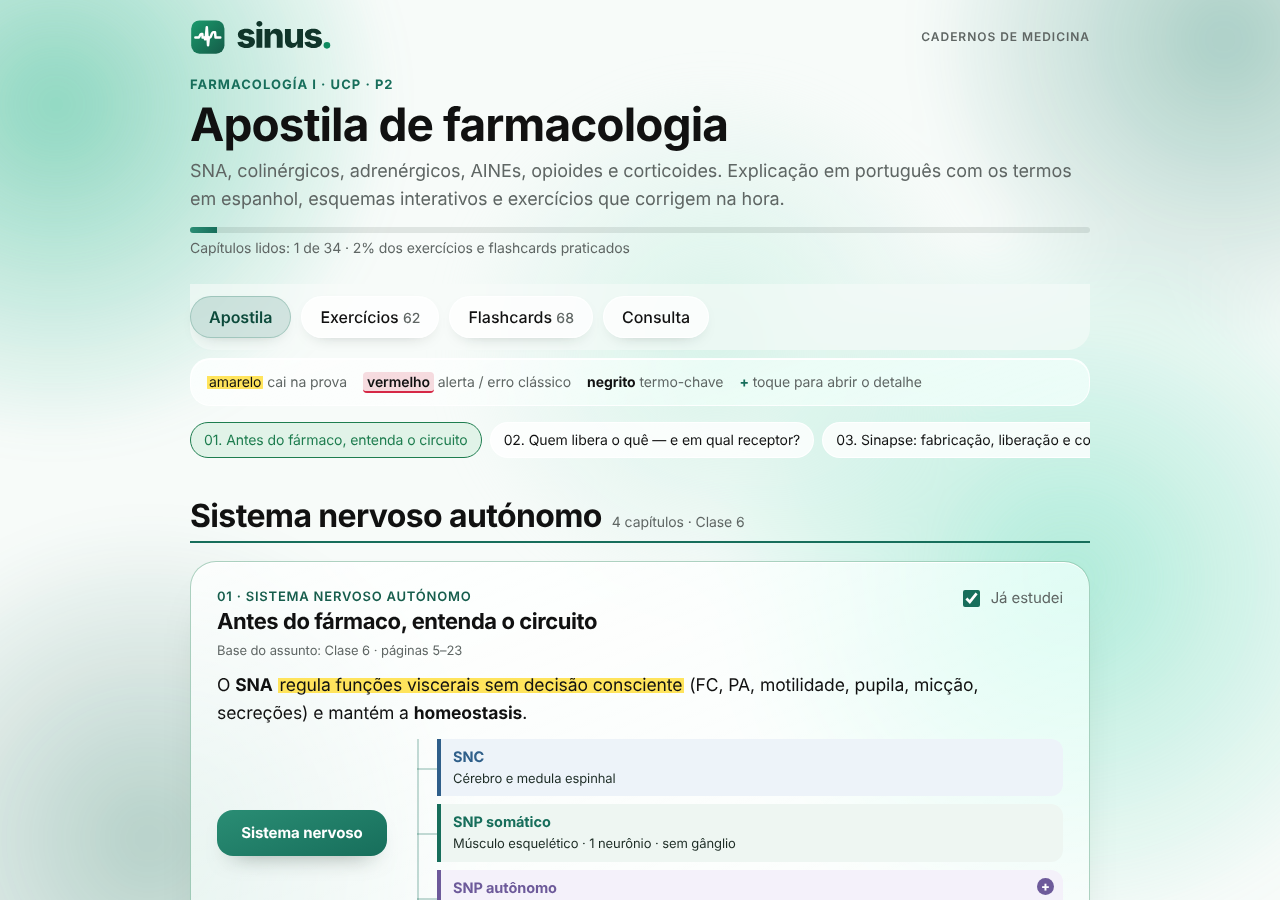
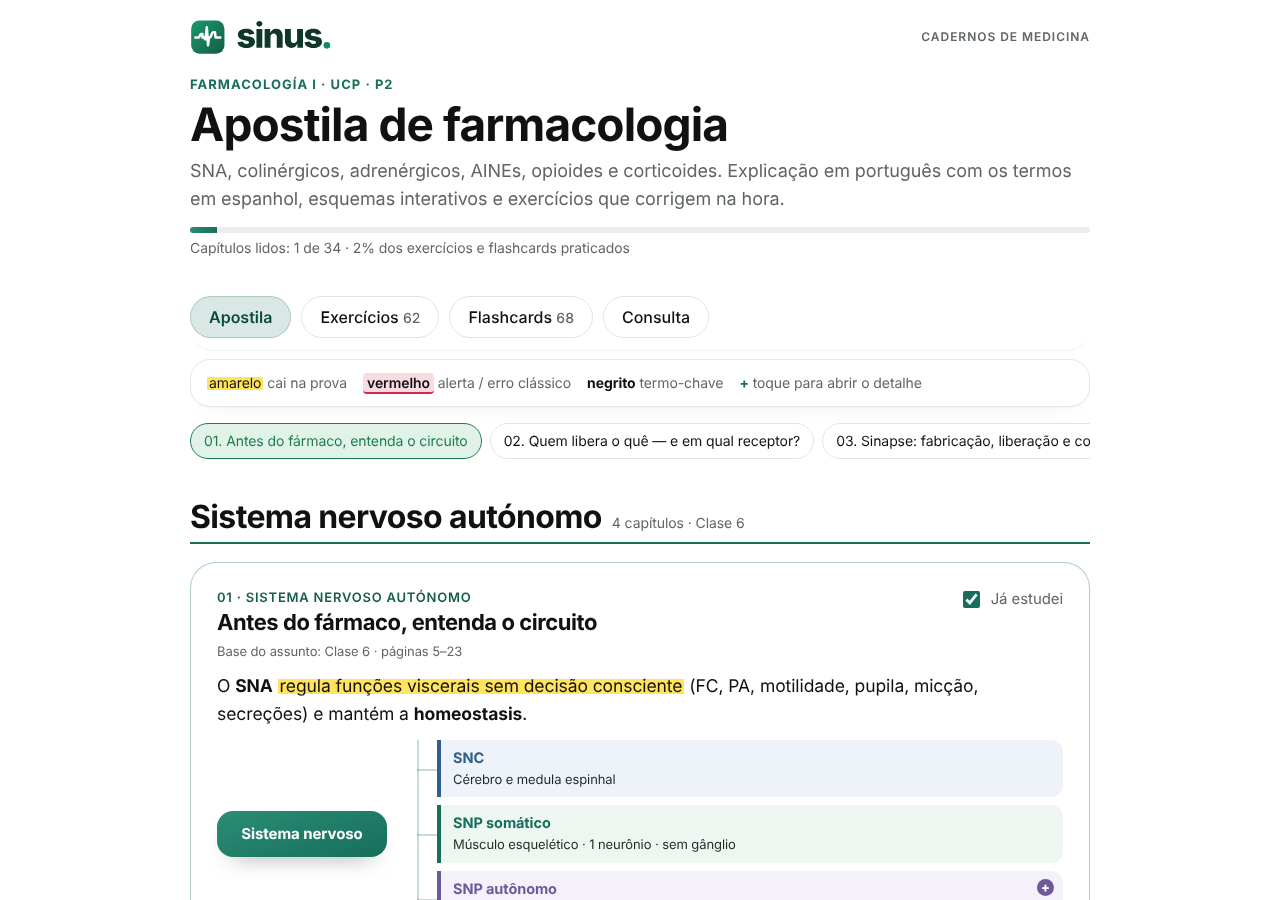
Apostila SINUS P2: fundo branco, sem efeito aurora
Claude-Session: https://claude.ai/code/session_011jma7q55HCxyfy7vE8b8a7

diff --git a/materiais/farmacologia-p2/apostila-farmacologia-p2.html b/materiais/farmacologia-p2/apostila-farmacologia-p2.html
@@ -13,16 +13,16 @@
    Fundo aurora menta · cartões de vidro · abas em pílula · Inter
    ========================================================== */
 :root{
-  --bg:#f7fbf9; --ink:#111; --ink2:#10352a; --mut:#5f6664; --line:#e3e8e5;
+  --bg:#ffffff; --ink:#111; --ink2:#10352a; --mut:#5f6664; --line:#e3e8e5;
   --acc:#176e5b; --acc2:#0c8059; --acc-d:#0c4a3b; --acc-soft:#eef5f2;
   --warn:#8a5a00; --warn-soft:#fff3d6; --ok:#1e7d4f; --ok-soft:#e1f3e8; --bad:#a3261c; --bad-soft:#fbe6e3; --info:#2f5f8a; --info-soft:#e8f0f8;
-  --glass:linear-gradient(160deg,rgba(255,255,255,.80),rgba(255,255,255,.56) 55%,rgba(255,255,255,.68));
+  --glass:#ffffff;
   --f:"Inter","Manrope","DM Sans",system-ui,-apple-system,"Segoe UI",sans-serif;
 }
 *{box-sizing:border-box}
 html,body{margin:0}
 body{position:relative;isolation:isolate;overflow-x:hidden;background:var(--bg);color:var(--ink);font:17px/1.6 var(--f);letter-spacing:-.005em;padding:0 max(16px,env(safe-area-inset-left,0px)) 40px;-webkit-font-smoothing:antialiased}
-body::before{content:"";position:fixed;inset:-10vh -10vw;z-index:-1;pointer-events:none;
+body::before{display:none;content:"";position:fixed;inset:-10vh -10vw;z-index:-1;pointer-events:none;
   background:
     radial-gradient(38vmax 38vmax at 12% 18%,rgba(56,174,139,.5),rgba(56,174,139,0) 70%),
     radial-gradient(34vmax 34vmax at 88% 12%,rgba(22,110,91,.32),rgba(22,110,91,0) 70%),
@@ -38,7 +38,7 @@ a{color:var(--acc)}
 button{font:inherit;cursor:pointer;color:var(--ink)}
 :focus-visible{outline:2px solid var(--acc);outline-offset:2px}
 .wrap{max-width:900px;margin:0 auto}
-.glass{background:var(--glass);-webkit-backdrop-filter:blur(18px) saturate(170%);backdrop-filter:blur(18px) saturate(170%);border:1px solid rgba(255,255,255,.85);box-shadow:inset 0 1px 0 #fff,0 24px 48px -32px rgba(17,40,30,.35)}
+.glass{background:var(--glass);-webkit-backdrop-filter:blur(18px) saturate(170%);backdrop-filter:blur(18px) saturate(170%);border:1px solid #e3e8e5;box-shadow:0 1px 2px rgba(17,40,30,.04),0 8px 24px -18px rgba(17,40,30,.18)}
 
 /* ---------- topo ---------- */
 .brandbar{display:flex;justify-content:space-between;align-items:center;padding:18px 0 4px}
@@ -48,16 +48,16 @@ header.top{padding:14px 0 6px}
 .kicker{font-size:13px;letter-spacing:.08em;text-transform:uppercase;color:var(--acc);font-weight:700}
 header.top h1{font-size:clamp(30px,5vw,46px);font-weight:700;line-height:1.1;margin-top:4px}
 .lede{color:var(--mut);margin:8px 0 0;font-size:18px;line-height:1.55}
-.progress{height:6px;background:rgba(17,40,30,.1);border-radius:6px;overflow:hidden;margin:14px 0 4px}
+.progress{height:6px;background:#eceeed;border-radius:6px;overflow:hidden;margin:14px 0 4px}
 .progress i{display:block;height:100%;width:0;background:linear-gradient(90deg,#2a8d74,#176e5b);transition:width .3s}
 .mini{font-size:14px;color:var(--mut)}
 
 /* ---------- abas ---------- */
-nav.tabs{display:flex;gap:10px;flex-wrap:wrap;position:sticky;top:0;z-index:20;margin:18px 0 8px;padding:12px 0;background:rgba(247,251,249,.55);-webkit-backdrop-filter:blur(16px);backdrop-filter:blur(16px);border-radius:0 0 22px 22px}
-nav.tabs button{border-radius:999px;padding:9px 18px;font:500 16px var(--f);min-height:42px;background:rgba(255,255,255,.72);border:1px solid rgba(255,255,255,.9);box-shadow:0 6px 18px -12px rgba(17,40,30,.4)}
+nav.tabs{display:flex;gap:10px;flex-wrap:wrap;position:sticky;top:0;z-index:20;margin:18px 0 8px;padding:12px 0;background:rgba(255,255,255,.96);border-bottom:1px solid #eef1ef;-webkit-backdrop-filter:blur(16px);backdrop-filter:blur(16px);border-radius:0 0 22px 22px}
+nav.tabs button{border-radius:999px;padding:9px 18px;font:500 16px var(--f);min-height:42px;background:#fff;border:1px solid #dfe5e2}
 nav.tabs button[aria-selected="true"]{background:rgba(22,110,91,.16);border-color:rgba(22,110,91,.25);color:var(--acc-d);font-weight:600}
 .toc{display:flex;gap:8px;overflow-x:auto;padding:6px 0 12px;scrollbar-width:thin}
-.toc a{white-space:nowrap;text-decoration:none;border-radius:999px;padding:6px 13px;font-size:14px;background:rgba(255,255,255,.8);border:1px solid rgba(255,255,255,.95);color:var(--ink)}
+.toc a{white-space:nowrap;text-decoration:none;border-radius:999px;padding:6px 13px;font-size:14px;background:#fff;border:1px solid #dfe5e2;color:var(--ink)}
 .toc a.done{border-color:var(--ok);color:var(--ok);background:var(--ok-soft)}
 
 /* ---------- grupos (módulos) ---------- */
@@ -68,7 +68,7 @@ section.grupo{margin-top:28px}
 .grupo-d{color:var(--mut);font-size:15px;margin:8px 0 0}
 
 /* ---------- capítulo (cartão) ---------- */
-.cap{border-radius:26px;padding:24px 26px 20px;margin:18px 0;scroll-margin-top:90px;background:var(--glass);-webkit-backdrop-filter:blur(18px) saturate(170%);backdrop-filter:blur(18px) saturate(170%);border:1px solid rgba(255,255,255,.85);box-shadow:inset 0 1px 0 #fff,0 24px 48px -32px rgba(17,40,30,.35)}
+.cap{border-radius:26px;padding:24px 26px 20px;margin:18px 0;scroll-margin-top:90px;background:var(--glass);-webkit-backdrop-filter:blur(18px) saturate(170%);backdrop-filter:blur(18px) saturate(170%);border:1px solid #e3e8e5;box-shadow:0 1px 2px rgba(17,40,30,.04),0 8px 24px -18px rgba(17,40,30,.18)}
 .cap .head{display:flex;justify-content:space-between;gap:10px;align-items:flex-start;flex-wrap:wrap;margin-bottom:6px}
 .cap .num{display:block;font-size:13px;letter-spacing:.06em;color:#165d4c;font-weight:600;text-transform:uppercase}
 .cap h3{font-size:22px;font-weight:700;margin-top:2px}
@@ -83,14 +83,14 @@ ul.pl,ol.pl{margin:4px 0 8px;padding-left:22px}
 ul.pl li,ol.pl li{margin-bottom:3px}
 
 /* ---------- tabelas ---------- */
-.tw{overflow-x:auto;border-radius:16px;margin:10px 0 12px;background:rgba(255,255,255,.7);border:1px solid rgba(255,255,255,.9)}
+.tw{overflow-x:auto;border-radius:16px;margin:10px 0 12px;background:#fff;border:1px solid #e3e8e5}
 table.t{width:100%;border-collapse:collapse;font-size:14.5px;line-height:1.45}
 table.t thead th{background:rgba(22,110,91,.1);color:var(--acc-d);text-align:left;font-weight:700;padding:10px 12px}
 table.t td{padding:9px 12px;border-top:1px solid var(--line);vertical-align:top}
 table.t tr{break-inside:avoid}
 
 /* ---------- quadros (estilo «Em 3 linhas» / «Para memorizar») ---------- */
-.box{border-radius:20px;padding:13px 16px;margin:12px 0;background:var(--glass);-webkit-backdrop-filter:blur(18px) saturate(170%);backdrop-filter:blur(18px) saturate(170%);border:1px solid rgba(255,255,255,.85);box-shadow:inset 0 1px 0 #fff,0 18px 36px -30px rgba(17,40,30,.35)}
+.box{border-radius:20px;padding:13px 16px;margin:12px 0;background:#f6f8f7;-webkit-backdrop-filter:blur(18px) saturate(170%);backdrop-filter:blur(18px) saturate(170%);border:1px solid #e3e8e5;box-shadow:none}
 .box .lb{display:block;font-weight:700;font-size:15px;color:var(--ink);margin-bottom:4px}
 .box p{font-size:16px;margin:.2em 0}
 .box.warn{background:var(--warn-soft);border-left:4px solid var(--warn)}
@@ -151,7 +151,7 @@ details.mmdet[open] summary:after{content:"Fechar"}
 .mmlegend{font-size:13.5px;color:var(--mut);margin:0 0 8px}
 
 /* ---------- exercícios ---------- */
-.qbox{border-radius:20px;padding:16px 18px;margin:0 0 12px;background:var(--glass);-webkit-backdrop-filter:blur(18px) saturate(170%);backdrop-filter:blur(18px) saturate(170%);border:1px solid rgba(255,255,255,.85);box-shadow:inset 0 1px 0 #fff,0 18px 36px -30px rgba(17,40,30,.35);break-inside:avoid}
+.qbox{border-radius:20px;padding:16px 18px;margin:0 0 12px;background:var(--glass);-webkit-backdrop-filter:blur(18px) saturate(170%);backdrop-filter:blur(18px) saturate(170%);border:1px solid #e3e8e5;box-shadow:none;break-inside:avoid}
 .qbox .qn{display:flex;justify-content:space-between;gap:8px;align-items:center;font-size:13px;color:var(--mut);font-weight:600;margin-bottom:6px}
 .qbox .qn em{font-style:normal;font-size:12px;font-weight:600;color:var(--acc);background:var(--acc-soft);border-radius:999px;padding:3px 10px}
 .qbox .qt{font-size:17px;font-weight:600;margin-bottom:10px;line-height:1.45}
@@ -171,7 +171,7 @@ details.mmdet[open] summary:after{content:"Fechar"}
 .rv .ans.show{display:block}
 .btn{border-radius:999px;border:1px solid transparent;background:linear-gradient(160deg,#2a8d74,#176e5b);color:#fff;padding:8px 16px;font:600 14px var(--f);min-height:40px}
 .btn.ghost{background:rgba(255,255,255,.85);color:var(--acc-d);border-color:rgba(22,110,91,.25)}
-.score{display:flex;gap:0;flex-wrap:wrap;align-items:center;border-radius:20px;padding:14px 18px;margin:12px 0 14px;background:var(--glass);border:1px solid rgba(255,255,255,.85)}
+.score{display:flex;gap:0;flex-wrap:wrap;align-items:center;border-radius:20px;padding:14px 18px;margin:12px 0 14px;background:#f6f8f7;border:1px solid #e3e8e5}
 .score .s{padding:0 18px;border-left:1px solid var(--line);font-size:11.5px;letter-spacing:.08em;text-transform:uppercase;color:var(--mut);font-weight:600}
 .score .s:first-child{padding-left:0;border-left:0}
 .score .s b{display:block;font-size:26px;letter-spacing:-.02em;color:#111;text-transform:none}
@@ -185,7 +185,7 @@ details.mmdet[open] summary:after{content:"Fechar"}
 .card3{perspective:1100px;height:240px;margin:0 auto;max-width:680px;cursor:pointer}
 .card3 .in{position:relative;width:100%;height:100%;transition:transform .5s;transform-style:preserve-3d}
 .card3.flip .in{transform:rotateY(180deg)}
-.card3 .f,.card3 .b{position:absolute;inset:0;backface-visibility:hidden;-webkit-backface-visibility:hidden;border-radius:24px;padding:24px 28px;display:flex;flex-direction:column;justify-content:center;border:1px solid rgba(255,255,255,.9);box-shadow:inset 0 1px 0 #fff,0 24px 48px -30px rgba(17,40,30,.45)}
+.card3 .f,.card3 .b{position:absolute;inset:0;backface-visibility:hidden;-webkit-backface-visibility:hidden;border-radius:24px;padding:24px 28px;display:flex;flex-direction:column;justify-content:center;border:1px solid #e3e8e5;box-shadow:0 10px 28px -18px rgba(17,40,30,.3)}
 .card3 .f{background:var(--glass);-webkit-backdrop-filter:blur(18px);backdrop-filter:blur(18px)}
 .card3 .b{background:linear-gradient(160deg,#e9f6ef,#d9efe4);transform:rotateY(180deg)}
 .card3 .lbl{font:700 12px var(--f);letter-spacing:.08em;text-transform:uppercase;color:var(--acc);margin-bottom:10px}

diff --git a/materiais/farmacologia-p2/src/estilo.css b/materiais/farmacologia-p2/src/estilo.css
@@ -3,16 +3,16 @@
    Fundo aurora menta · cartões de vidro · abas em pílula · Inter
    ========================================================== */
 :root{
-  --bg:#f7fbf9; --ink:#111; --ink2:#10352a; --mut:#5f6664; --line:#e3e8e5;
+  --bg:#ffffff; --ink:#111; --ink2:#10352a; --mut:#5f6664; --line:#e3e8e5;
   --acc:#176e5b; --acc2:#0c8059; --acc-d:#0c4a3b; --acc-soft:#eef5f2;
   --warn:#8a5a00; --warn-soft:#fff3d6; --ok:#1e7d4f; --ok-soft:#e1f3e8; --bad:#a3261c; --bad-soft:#fbe6e3; --info:#2f5f8a; --info-soft:#e8f0f8;
-  --glass:linear-gradient(160deg,rgba(255,255,255,.80),rgba(255,255,255,.56) 55%,rgba(255,255,255,.68));
+  --glass:#ffffff;
   --f:"Inter","Manrope","DM Sans",system-ui,-apple-system,"Segoe UI",sans-serif;
 }
 *{box-sizing:border-box}
 html,body{margin:0}
 body{position:relative;isolation:isolate;overflow-x:hidden;background:var(--bg);color:var(--ink);font:17px/1.6 var(--f);letter-spacing:-.005em;padding:0 max(16px,env(safe-area-inset-left,0px)) 40px;-webkit-font-smoothing:antialiased}
-body::before{content:"";position:fixed;inset:-10vh -10vw;z-index:-1;pointer-events:none;
+body::before{display:none;content:"";position:fixed;inset:-10vh -10vw;z-index:-1;pointer-events:none;
   background:
     radial-gradient(38vmax 38vmax at 12% 18%,rgba(56,174,139,.5),rgba(56,174,139,0) 70%),
     radial-gradient(34vmax 34vmax at 88% 12%,rgba(22,110,91,.32),rgba(22,110,91,0) 70%),
@@ -28,7 +28,7 @@ a{color:var(--acc)}
 button{font:inherit;cursor:pointer;color:var(--ink)}
 :focus-visible{outline:2px solid var(--acc);outline-offset:2px}
 .wrap{max-width:900px;margin:0 auto}
-.glass{background:var(--glass);-webkit-backdrop-filter:blur(18px) saturate(170%);backdrop-filter:blur(18px) saturate(170%);border:1px solid rgba(255,255,255,.85);box-shadow:inset 0 1px 0 #fff,0 24px 48px -32px rgba(17,40,30,.35)}
+.glass{background:var(--glass);-webkit-backdrop-filter:blur(18px) saturate(170%);backdrop-filter:blur(18px) saturate(170%);border:1px solid #e3e8e5;box-shadow:0 1px 2px rgba(17,40,30,.04),0 8px 24px -18px rgba(17,40,30,.18)}
 
 /* ---------- topo ---------- */
 .brandbar{display:flex;justify-content:space-between;align-items:center;padding:18px 0 4px}
@@ -38,16 +38,16 @@ header.top{padding:14px 0 6px}
 .kicker{font-size:13px;letter-spacing:.08em;text-transform:uppercase;color:var(--acc);font-weight:700}
 header.top h1{font-size:clamp(30px,5vw,46px);font-weight:700;line-height:1.1;margin-top:4px}
 .lede{color:var(--mut);margin:8px 0 0;font-size:18px;line-height:1.55}
-.progress{height:6px;background:rgba(17,40,30,.1);border-radius:6px;overflow:hidden;margin:14px 0 4px}
+.progress{height:6px;background:#eceeed;border-radius:6px;overflow:hidden;margin:14px 0 4px}
 .progress i{display:block;height:100%;width:0;background:linear-gradient(90deg,#2a8d74,#176e5b);transition:width .3s}
 .mini{font-size:14px;color:var(--mut)}
 
 /* ---------- abas ---------- */
-nav.tabs{display:flex;gap:10px;flex-wrap:wrap;position:sticky;top:0;z-index:20;margin:18px 0 8px;padding:12px 0;background:rgba(247,251,249,.55);-webkit-backdrop-filter:blur(16px);backdrop-filter:blur(16px);border-radius:0 0 22px 22px}
-nav.tabs button{border-radius:999px;padding:9px 18px;font:500 16px var(--f);min-height:42px;background:rgba(255,255,255,.72);border:1px solid rgba(255,255,255,.9);box-shadow:0 6px 18px -12px rgba(17,40,30,.4)}
+nav.tabs{display:flex;gap:10px;flex-wrap:wrap;position:sticky;top:0;z-index:20;margin:18px 0 8px;padding:12px 0;background:rgba(255,255,255,.96);border-bottom:1px solid #eef1ef;-webkit-backdrop-filter:blur(16px);backdrop-filter:blur(16px);border-radius:0 0 22px 22px}
+nav.tabs button{border-radius:999px;padding:9px 18px;font:500 16px var(--f);min-height:42px;background:#fff;border:1px solid #dfe5e2}
 nav.tabs button[aria-selected="true"]{background:rgba(22,110,91,.16);border-color:rgba(22,110,91,.25);color:var(--acc-d);font-weight:600}
 .toc{display:flex;gap:8px;overflow-x:auto;padding:6px 0 12px;scrollbar-width:thin}
-.toc a{white-space:nowrap;text-decoration:none;border-radius:999px;padding:6px 13px;font-size:14px;background:rgba(255,255,255,.8);border:1px solid rgba(255,255,255,.95);color:var(--ink)}
+.toc a{white-space:nowrap;text-decoration:none;border-radius:999px;padding:6px 13px;font-size:14px;background:#fff;border:1px solid #dfe5e2;color:var(--ink)}
 .toc a.done{border-color:var(--ok);color:var(--ok);background:var(--ok-soft)}
 
 /* ---------- grupos (módulos) ---------- */
@@ -58,7 +58,7 @@ section.grupo{margin-top:28px}
 .grupo-d{color:var(--mut);font-size:15px;margin:8px 0 0}
 
 /* ---------- capítulo (cartão) ---------- */
-.cap{border-radius:26px;padding:24px 26px 20px;margin:18px 0;scroll-margin-top:90px;background:var(--glass);-webkit-backdrop-filter:blur(18px) saturate(170%);backdrop-filter:blur(18px) saturate(170%);border:1px solid rgba(255,255,255,.85);box-shadow:inset 0 1px 0 #fff,0 24px 48px -32px rgba(17,40,30,.35)}
+.cap{border-radius:26px;padding:24px 26px 20px;margin:18px 0;scroll-margin-top:90px;background:var(--glass);-webkit-backdrop-filter:blur(18px) saturate(170%);backdrop-filter:blur(18px) saturate(170%);border:1px solid #e3e8e5;box-shadow:0 1px 2px rgba(17,40,30,.04),0 8px 24px -18px rgba(17,40,30,.18)}
 .cap .head{display:flex;justify-content:space-between;gap:10px;align-items:flex-start;flex-wrap:wrap;margin-bottom:6px}
 .cap .num{display:block;font-size:13px;letter-spacing:.06em;color:#165d4c;font-weight:600;text-transform:uppercase}
 .cap h3{font-size:22px;font-weight:700;margin-top:2px}
@@ -73,14 +73,14 @@ ul.pl,ol.pl{margin:4px 0 8px;padding-left:22px}
 ul.pl li,ol.pl li{margin-bottom:3px}
 
 /* ---------- tabelas ---------- */
-.tw{overflow-x:auto;border-radius:16px;margin:10px 0 12px;background:rgba(255,255,255,.7);border:1px solid rgba(255,255,255,.9)}
+.tw{overflow-x:auto;border-radius:16px;margin:10px 0 12px;background:#fff;border:1px solid #e3e8e5}
 table.t{width:100%;border-collapse:collapse;font-size:14.5px;line-height:1.45}
 table.t thead th{background:rgba(22,110,91,.1);color:var(--acc-d);text-align:left;font-weight:700;padding:10px 12px}
 table.t td{padding:9px 12px;border-top:1px solid var(--line);vertical-align:top}
 table.t tr{break-inside:avoid}
 
 /* ---------- quadros (estilo «Em 3 linhas» / «Para memorizar») ---------- */
-.box{border-radius:20px;padding:13px 16px;margin:12px 0;background:var(--glass);-webkit-backdrop-filter:blur(18px) saturate(170%);backdrop-filter:blur(18px) saturate(170%);border:1px solid rgba(255,255,255,.85);box-shadow:inset 0 1px 0 #fff,0 18px 36px -30px rgba(17,40,30,.35)}
+.box{border-radius:20px;padding:13px 16px;margin:12px 0;background:#f6f8f7;-webkit-backdrop-filter:blur(18px) saturate(170%);backdrop-filter:blur(18px) saturate(170%);border:1px solid #e3e8e5;box-shadow:none}
 .box .lb{display:block;font-weight:700;font-size:15px;color:var(--ink);margin-bottom:4px}
 .box p{font-size:16px;margin:.2em 0}
 .box.warn{background:var(--warn-soft);border-left:4px solid var(--warn)}
@@ -141,7 +141,7 @@ details.mmdet[open] summary:after{content:"Fechar"}
 .mmlegend{font-size:13.5px;color:var(--mut);margin:0 0 8px}
 
 /* ---------- exercícios ---------- */
-.qbox{border-radius:20px;padding:16px 18px;margin:0 0 12px;background:var(--glass);-webkit-backdrop-filter:blur(18px) saturate(170%);backdrop-filter:blur(18px) saturate(170%);border:1px solid rgba(255,255,255,.85);box-shadow:inset 0 1px 0 #fff,0 18px 36px -30px rgba(17,40,30,.35);break-inside:avoid}
+.qbox{border-radius:20px;padding:16px 18px;margin:0 0 12px;background:var(--glass);-webkit-backdrop-filter:blur(18px) saturate(170%);backdrop-filter:blur(18px) saturate(170%);border:1px solid #e3e8e5;box-shadow:none;break-inside:avoid}
 .qbox .qn{display:flex;justify-content:space-between;gap:8px;align-items:center;font-size:13px;color:var(--mut);font-weight:600;margin-bottom:6px}
 .qbox .qn em{font-style:normal;font-size:12px;font-weight:600;color:var(--acc);background:var(--acc-soft);border-radius:999px;padding:3px 10px}
 .qbox .qt{font-size:17px;font-weight:600;margin-bottom:10px;line-height:1.45}
@@ -161,7 +161,7 @@ details.mmdet[open] summary:after{content:"Fechar"}
 .rv .ans.show{display:block}
 .btn{border-radius:999px;border:1px solid transparent;background:linear-gradient(160deg,#2a8d74,#176e5b);color:#fff;padding:8px 16px;font:600 14px var(--f);min-height:40px}
 .btn.ghost{background:rgba(255,255,255,.85);color:var(--acc-d);border-color:rgba(22,110,91,.25)}
-.score{display:flex;gap:0;flex-wrap:wrap;align-items:center;border-radius:20px;padding:14px 18px;margin:12px 0 14px;background:var(--glass);border:1px solid rgba(255,255,255,.85)}
+.score{display:flex;gap:0;flex-wrap:wrap;align-items:center;border-radius:20px;padding:14px 18px;margin:12px 0 14px;background:#f6f8f7;border:1px solid #e3e8e5}
 .score .s{padding:0 18px;border-left:1px solid var(--line);font-size:11.5px;letter-spacing:.08em;text-transform:uppercase;color:var(--mut);font-weight:600}
 .score .s:first-child{padding-left:0;border-left:0}
 .score .s b{display:block;font-size:26px;letter-spacing:-.02em;color:#111;text-transform:none}
@@ -175,7 +175,7 @@ details.mmdet[open] summary:after{content:"Fechar"}
 .card3{perspective:1100px;height:240px;margin:0 auto;max-width:680px;cursor:pointer}
 .card3 .in{position:relative;width:100%;height:100%;transition:transform .5s;transform-style:preserve-3d}
 .card3.flip .in{transform:rotateY(180deg)}
-.card3 .f,.card3 .b{position:absolute;inset:0;backface-visibility:hidden;-webkit-backface-visibility:hidden;border-radius:24px;padding:24px 28px;display:flex;flex-direction:column;justify-content:center;border:1px solid rgba(255,255,255,.9);box-shadow:inset 0 1px 0 #fff,0 24px 48px -30px rgba(17,40,30,.45)}
+.card3 .f,.card3 .b{position:absolute;inset:0;backface-visibility:hidden;-webkit-backface-visibility:hidden;border-radius:24px;padding:24px 28px;display:flex;flex-direction:column;justify-content:center;border:1px solid #e3e8e5;box-shadow:0 10px 28px -18px rgba(17,40,30,.3)}
 .card3 .f{background:var(--glass);-webkit-backdrop-filter:blur(18px);backdrop-filter:blur(18px)}
 .card3 .b{background:linear-gradient(160deg,#e9f6ef,#d9efe4);transform:rotateY(180deg)}
 .card3 .lbl{font:700 12px var(--f);letter-spacing:.08em;text-transform:uppercase;color:var(--acc);margin-bottom:10px}
